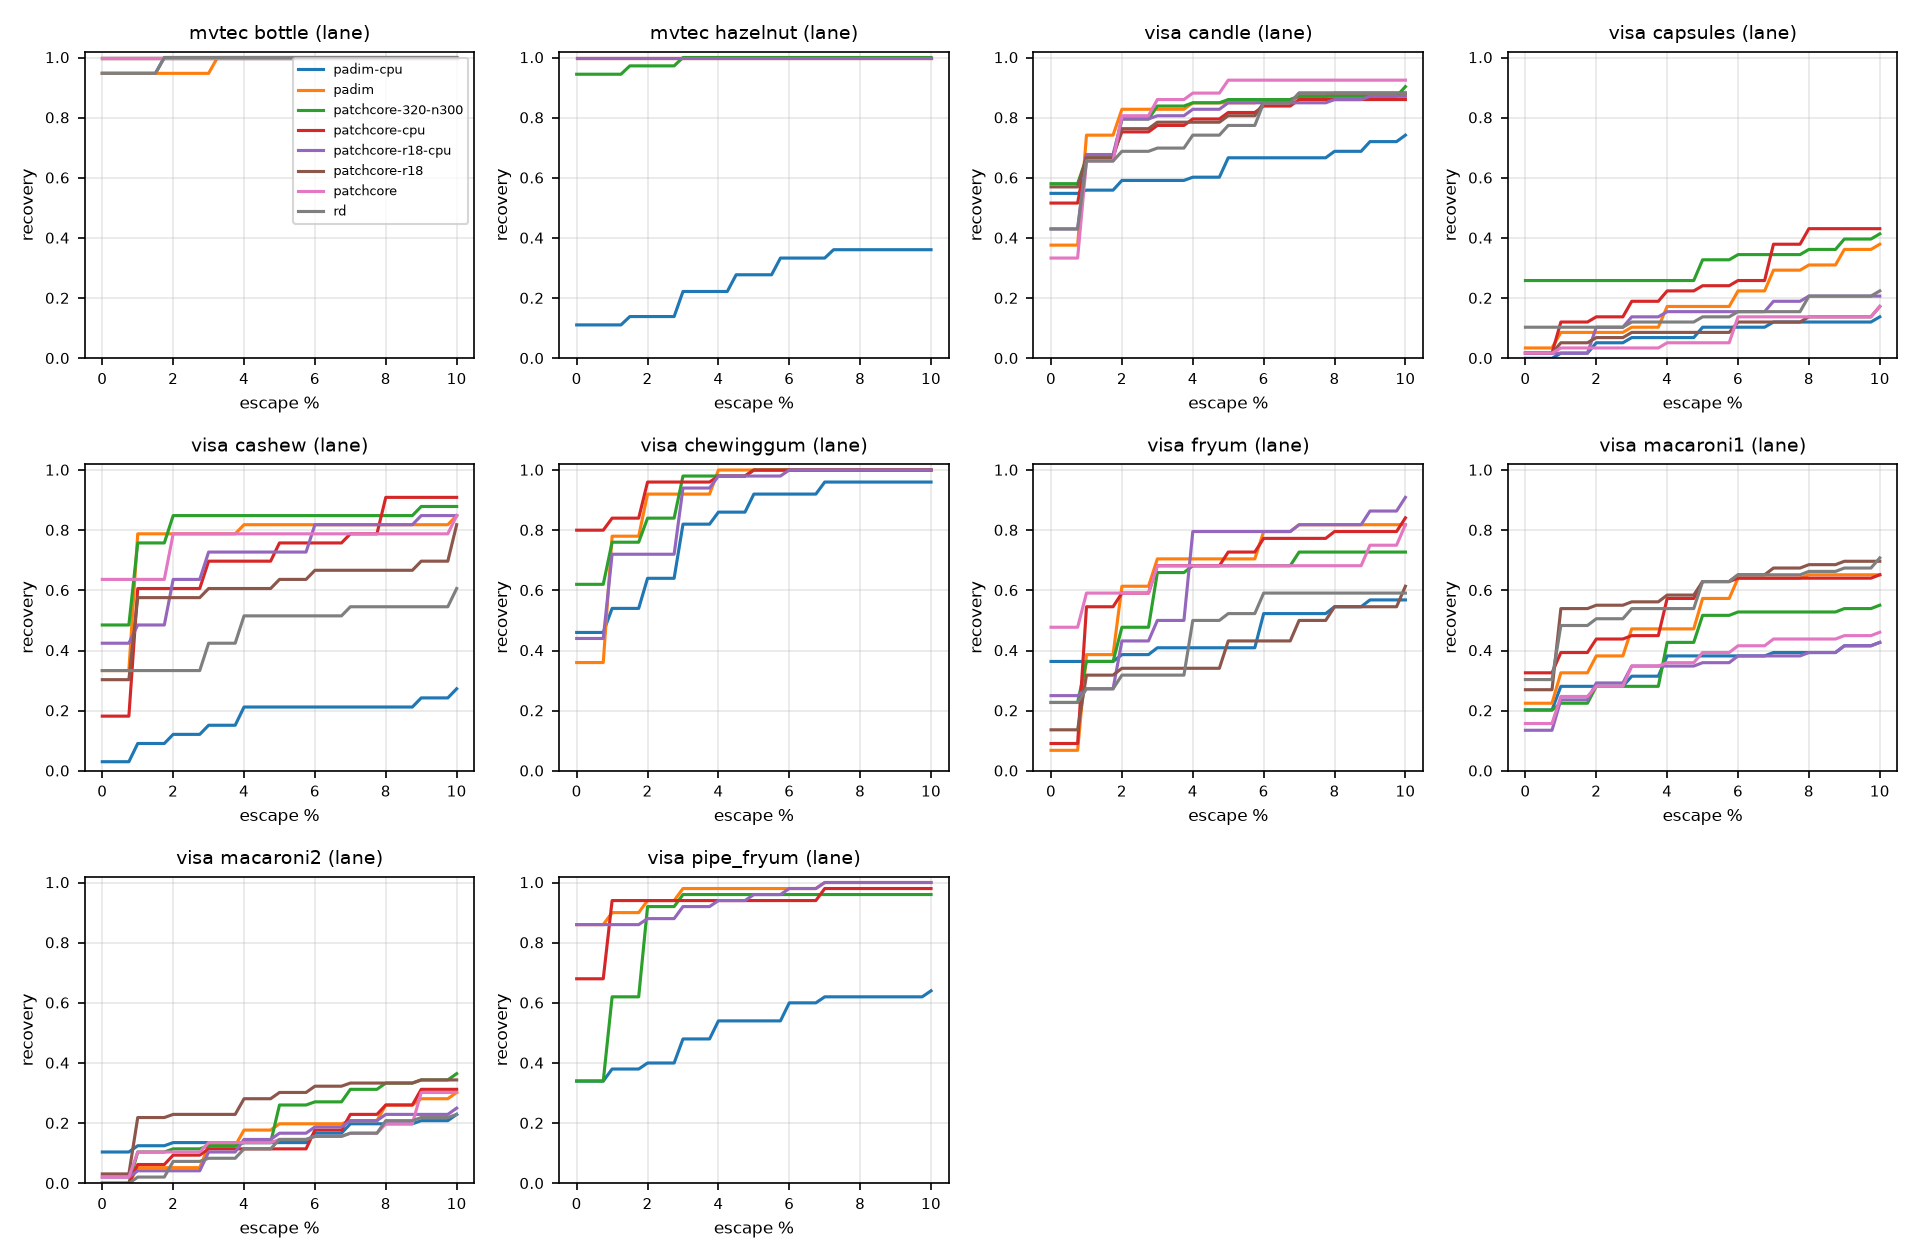
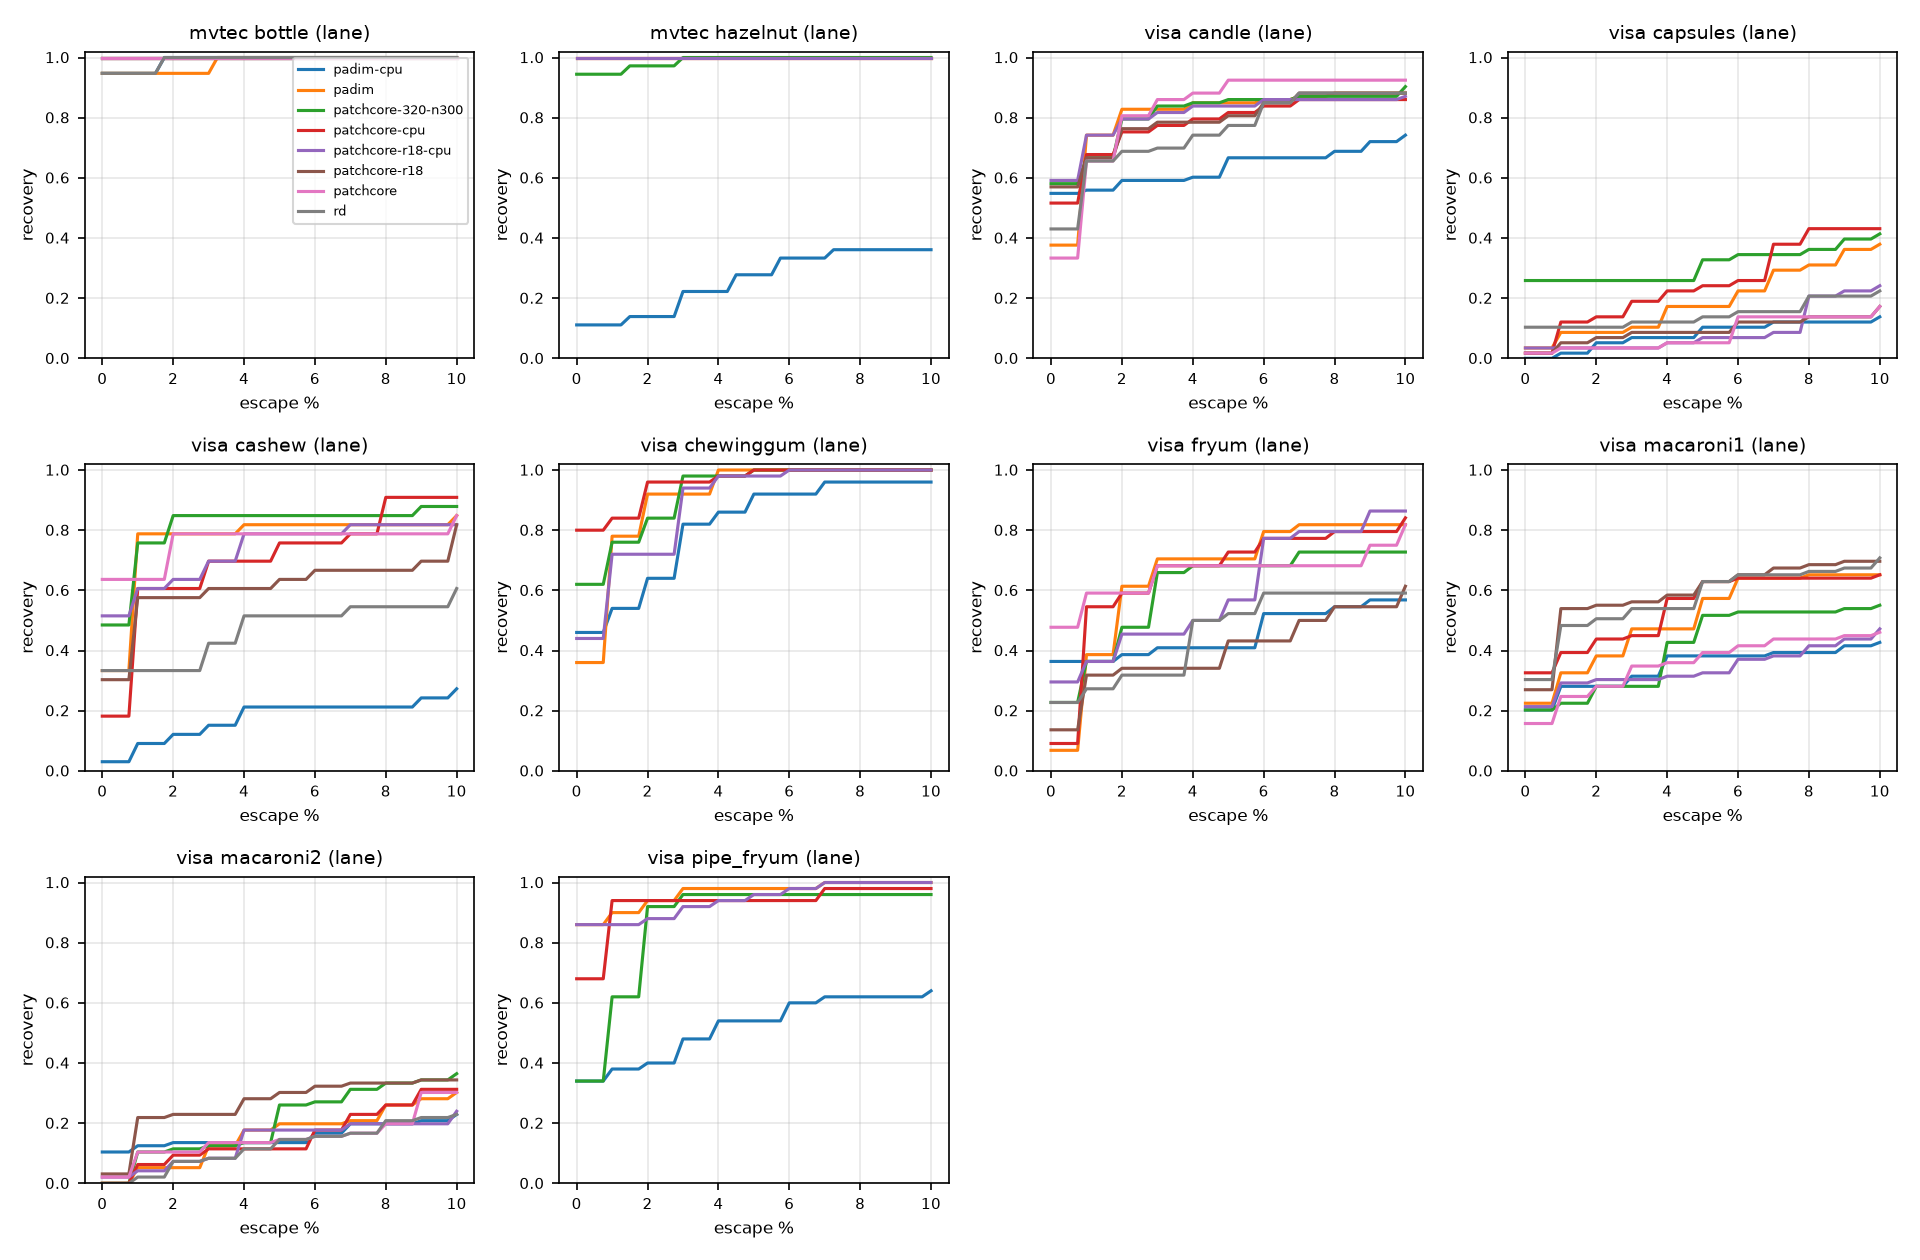
feat: goodsad tier in tables and figures

diff --git a/scripts/figures.py b/scripts/figures.py
@@ -17,11 +17,14 @@ import pandas as pd
 matplotlib.use("Agg")
 import matplotlib.pyplot as plt  # noqa: E402
 
+from common import is_main  # noqa: E402
+
 # tiers: rigid single objects / textured single items / multi-instance trays
 TIERS = [
     ("rigid object", ["bottle", "hazelnut"]),
     ("textured single item", ["pipe_fryum", "chewinggum", "cashew", "candle", "fryum"]),
     ("multi-instance tray", ["macaroni1", "capsules", "macaroni2"]),
+    ("packaged goods", ["drink_can", "drink_bottle", "food_bottle", "food_package", "food_box"]),
 ]
 MODELS = [("padim", "PaDiM 256"), ("patchcore", "PatchCore 256"), ("rd", "Reverse Dist. 256"),
           ("patchcore-320-n300", "PatchCore 320 (300 img)"), ("patchcore-r18", "PatchCore 256 resnet18")]
@@ -53,7 +56,8 @@ def heatmap(df: pd.DataFrame, out: Path) -> None:
     mat = np.full((len(cats), len(keys)), np.nan)
     for i, c in enumerate(cats):
         for j, m in enumerate(keys):
-            r = df[(df.category == c) & (df.model == m)]
+            sel = df.model.map(is_main) if m == "patchcore" else df.model == m
+            r = df[(df.category == c) & sel]
             if len(r):
                 mat[i, j] = r[COL].iloc[0]
     cmap = matplotlib.colors.ListedColormap(SEQ)
@@ -85,7 +89,8 @@ def heatmap(df: pd.DataFrame, out: Path) -> None:
     ax.set_title("Share of good items recovered at 1% escape, simulated reject lane", fontsize=10, color=INK, loc="left")
     for s in ax.spines.values():
         s.set_visible(False)
-    fig.tight_layout()
+    fig.text(0.01, 0.01, "packaged goods: GoodsAD, PatchCore on 400 training images", fontsize=6.5, color=INK2)
+    fig.tight_layout(rect=(0, 0.03, 1, 1))
     fig.savefig(out / "recovery_heatmap.png", dpi=160)
     plt.close(fig)
 
@@ -114,6 +119,8 @@ def speed(df: pd.DataFrame, devices: dict, out: Path) -> None:
     """Mean lane recovery vs latency per model on the GPU. A hollow marker at the same height shows
     the same model's latency on the CPU where it was timed (tag suffix -cpu, bottle only)."""
     names = dict(MODELS)
+    full = df.groupby("category").model.apply(lambda s: set(names) <= set(s))  # categories with every main model
+    df = df[df.category.isin(full[full].index)]
     gpu = df[df.model.isin(names)].groupby("model").agg(rec=(COL, "mean"), ms=("ms_per_image", "mean"))
     cpu = df[df.model.str.endswith("-cpu")].groupby("model").agg(ms=("ms_per_image", "mean"))
     offsets = {"patchcore": (-6, 8), "patchcore-320-n300": (6, 4), "patchcore-r18": (6, -11)}
@@ -130,7 +137,7 @@ def speed(df: pd.DataFrame, devices: dict, out: Path) -> None:
             ax.annotate("cpu", (cms, r.rec), xytext=(6, 2), textcoords="offset points", fontsize=7, color=INK2)
     ax.set_xscale("log")
     ax.set_xlabel("inference ms per image, log scale. Filled: GPU. Hollow: same model on CPU", fontsize=8, color=INK2)
-    ax.set_ylabel("mean recovery at 1% escape, lane, 10 categories", fontsize=8, color=INK2)
+    ax.set_ylabel(f"mean recovery at 1% escape, lane, {df.category.nunique()} categories", fontsize=8, color=INK2)
     ax.set_ylim(0.3, 0.8)
     ax.set_title("Latency vs recovery per model", fontsize=10, color=INK, loc="left")
     fig.text(0.01, 0.01, ", ".join(f"{k}: {v}" for k, v in sorted(devices.items())), fontsize=6.5, color=INK2)

diff --git a/scripts/lane.py b/scripts/lane.py
@@ -16,7 +16,7 @@ import pandas as pd
 from sklearn.metrics import roc_auc_score
 from sklearn.model_selection import StratifiedKFold
 
-from common import build_lane, recovery_at, split_tag, t_recover
+from common import build_lane, is_main, recovery_at, split_tag, t_recover
 
 ESCAPES = (0.0, 0.01, 0.05)
 CONFIRM_GOOD_FPR = 0.02   # t_confirm: at most 2 % of calibration goods above it
@@ -201,7 +201,7 @@ def write_docs(df: pd.DataFrame, frr_df: pd.DataFrame, path: Path, escape: float
 
 def frr_section(frr_df: pd.DataFrame, escape: float) -> list[str]:
     """PatchCore recovery on bins built by each stand-in at each primary reject rate. Does the bin builder matter?"""
-    d = frr_df[frr_df.model == "patchcore"]
+    d = frr_df[frr_df.model.map(is_main)]
     if d.empty:
         return []
     bins = ["zero-miss"] + [f"{f:.2f}" for f in FRRS]
@@ -210,7 +210,7 @@ def frr_section(frr_df: pd.DataFrame, escape: float) -> list[str]:
         f"## PatchCore recovery by stand-in camera and primary reject rate (held-out, {escape:.0%} escape)",
         "",
         "Columns: share of goods the stand-in rejects. `zero-miss`: cutoff at its weakest defect, resulting",
-        "reject rate in brackets. `template`: the unaligned rule camera.",
+        "reject rate in brackets. `template`: the unaligned rule camera. GoodsAD rows: PatchCore on 400 training images.",
         "",
         "The stand-in dilemma: a dumb primary rejects goods for reasons our model does not share, so the",
         "bin is easy and recovery looks good. A smart primary rejects the goods our model also doubts, so",
@@ -274,11 +274,11 @@ def make_figures(df: pd.DataFrame, frr_df: pd.DataFrame, scores: dict, standins:
             ("patchcore-320-n300", "#eda100"), ("patchcore-r18", "#e87ba4")]
     fig, ax = plt.subplots(figsize=(6, 5))
     for model, color in main:
-        g = df[df.model == model]
+        g = df[df.model.map(is_main)] if model == "patchcore" else df[df.model == model]
         if g.empty:
             continue
         ax.scatter(g.auroc, g[col], label=model, s=36, color=color, edgecolor="#ffffff", linewidth=0.8)
-    g = df[df.model == "patchcore"]
+    g = df[df.model.map(is_main)]
     for _, r in g.iterrows():
         ax.annotate(r.category, (r.auroc, r[col]), fontsize=6, color="#52514e", xytext=(4, 2), textcoords="offset points")
     ax.set_xlabel("image AUROC", fontsize=8)
@@ -324,7 +324,7 @@ def make_figures(df: pd.DataFrame, frr_df: pd.DataFrame, scores: dict, standins:
     plt.close(fig)
 
     # recovery vs primary reject rate, PatchCore, one line per stand-in
-    d = frr_df[(frr_df.model == "patchcore") & (frr_df.bin != "zero-miss")]
+    d = frr_df[frr_df.model.map(is_main) & (frr_df.bin != "zero-miss")]
     if d.empty:
         return
     colors = {"aligned": "#2a78d6", "pca": "#eb6834", "tinypadim": "#1baf7a", "template": "#8a8a8a"}

diff --git a/scripts/common.py b/scripts/common.py
@@ -25,6 +25,12 @@ def make_datamodule(dataset: str, root: Path, category: str, **kw):
 DATASETS = ("visa", "mvtec", "goodsad")
 
 
+def is_main(model: str) -> bool:
+    """The reference PatchCore run of a category: all training images, or the 400-image subset on GoodsAD,
+    where the full bank would not fit in VRAM."""
+    return model in ("patchcore", "patchcore-n400")
+
+
 def split_tag(tag: str) -> tuple[str, str, str]:
     """'visa_pipe_fryum_patchcore-320' -> ('visa', 'pipe_fryum', 'patchcore-320'). Model tokens never contain '_'."""
     ds, rest = tag.split("_", 1)

diff --git a/docs/results.md b/docs/results.md
@@ -39,7 +39,7 @@ recovery = auto-passed goods, escape = auto-passed defects, review = sent to a h
 | visa | capsules | patchcore-320-n150 | 60/100 | 0.78 | 0.03 | 0.08 | 0.18 | 0.97 | 0.09 | 0.97 | 0.07 | 0.98 | 0.08 | 21.70 |
 | visa | capsules | patchcore-320-n300 | 60/100 | 0.80 | 0.27 | 0.27 | 0.33 | 0.97 | 0.26 | 0.97 | 0.24 | 0.98 | 0.25 | 31.80 |
 | visa | capsules | patchcore-384-n150 | 60/100 | 0.84 | 0.02 | 0.12 | 0.25 | 0.97 | 0.12 | 0.97 | 0.09 | 0.98 | 0.12 | 39.80 |
-| visa | capsules | patchcore-n150 | 60/100 | 0.72 | 0.02 | 0.02 | 0.15 | 0.97 | 0.02 | 0.97 | 0.02 | 0.98 | 0.02 | 12.60 |
+| visa | capsules | patchcore-n150 | 60/100 | 0.73 | 0.03 | 0.03 | 0.07 | 0.97 | 0.03 | 0.97 | 0.03 | 0.98 | 0.03 | 11.90 |
 | visa | capsules | patchcore-r18 | 60/100 | 0.68 | 0.02 | 0.05 | 0.10 | 0.97 | 0.05 | 0.97 | 0.03 | 0.98 | 0.05 | 14.00 |
 | visa | capsules | rd | 60/100 | 0.79 | 0.10 | 0.10 | 0.13 | 0.97 | 0.10 | 0.97 | 0.09 | 0.98 | 0.10 | 131.50 |
 | visa | cashew | padim | 50/100 | 0.84 | 0.06 | 0.20 | 0.28 | 0.66 | 0.09 | 0.78 | 0.15 | 0.86 | 0.12 | 10.90 |
@@ -76,7 +76,7 @@ recovery = auto-passed goods, escape = auto-passed defects, review = sent to a h
 | visa | macaroni2 | patchcore-320-n150 | 100/100 | 0.64 | 0.00 | 0.06 | 0.21 | 0.96 | 0.05 | 0.96 | 0.05 | 0.93 | 0.05 | 20.00 |
 | visa | macaroni2 | patchcore-320-n300 | 100/100 | 0.69 | 0.00 | 0.12 | 0.27 | 0.96 | 0.10 | 0.96 | 0.10 | 0.93 | 0.11 | 31.20 |
 | visa | macaroni2 | patchcore-384-n150 | 100/100 | 0.68 | 0.00 | 0.07 | 0.12 | 0.96 | 0.06 | 0.96 | 0.06 | 0.93 | 0.06 | 34.20 |
-| visa | macaroni2 | patchcore-n150 | 100/100 | 0.60 | 0.03 | 0.05 | 0.17 | 0.96 | 0.04 | 0.96 | 0.04 | 0.93 | 0.04 | 11.80 |
+| visa | macaroni2 | patchcore-n150 | 100/100 | 0.62 | 0.03 | 0.05 | 0.18 | 0.96 | 0.04 | 0.96 | 0.04 | 0.93 | 0.04 | 11.00 |
 | visa | macaroni2 | patchcore-r18 | 100/100 | 0.72 | 0.04 | 0.23 | 0.31 | 0.96 | 0.22 | 0.96 | 0.22 | 0.93 | 0.23 | 18.00 |
 | visa | macaroni2 | rd | 100/100 | 0.64 | 0.00 | 0.02 | 0.14 | 0.96 | 0.02 | 0.96 | 0.02 | 0.93 | 0.02 | 125.40 |
 | visa | pipe_fryum | padim | 50/100 | 0.89 | 0.34 | 0.38 | 0.54 | 1.00 | 0.38 | 1.00 | 0.38 | 0.74 | 0.19 | 9.80 |
@@ -159,9 +159,9 @@ recovery = auto-passed goods, escape = auto-passed defects, review = sent to a h
 | visa | capsules | patchcore-384-n150 | aligned | 58 | 0.05 | 0.01 | 0.61 | 0.95 | 0.04 |
 | visa | capsules | patchcore-384-n150 | pca | 58 | 0.03 | 0.01 | 0.62 | 0.93 | 0.04 |
 | visa | capsules | patchcore-384-n150 | tinypadim | 59 | 0.05 | 0.01 | 0.64 | 0.96 | 0.04 |
-| visa | capsules | patchcore-n150 | aligned | 58 | 0.02 | 0.01 | 0.74 | 0.96 | 0.04 |
-| visa | capsules | patchcore-n150 | pca | 58 | 0.02 | 0.01 | 0.73 | 0.96 | 0.04 |
-| visa | capsules | patchcore-n150 | tinypadim | 59 | 0.02 | 0.01 | 0.73 | 0.93 | 0.04 |
+| visa | capsules | patchcore-n150 | aligned | 58 | 0.03 | 0.01 | 0.73 | 0.94 | 0.04 |
+| visa | capsules | patchcore-n150 | pca | 58 | 0.03 | 0.01 | 0.73 | 0.92 | 0.04 |
+| visa | capsules | patchcore-n150 | tinypadim | 59 | 0.03 | 0.01 | 0.73 | 0.95 | 0.04 |
 | visa | capsules | patchcore-r18 | aligned | 58 | 0.03 | 0.01 | 0.75 | 0.96 | 0.04 |
 | visa | capsules | patchcore-r18 | pca | 58 | 0.00 | 0.01 | 0.77 | 0.95 | 0.04 |
 | visa | capsules | patchcore-r18 | tinypadim | 59 | 0.03 | 0.01 | 0.75 | 0.96 | 0.04 |
@@ -270,9 +270,9 @@ recovery = auto-passed goods, escape = auto-passed defects, review = sent to a h
 | visa | macaroni2 | patchcore-384-n150 | aligned | 96 | 0.00 | 0.01 | 0.87 | 0.92 | 0.04 |
 | visa | macaroni2 | patchcore-384-n150 | pca | 96 | 0.01 | 0.01 | 0.87 | 0.89 | 0.04 |
 | visa | macaroni2 | patchcore-384-n150 | tinypadim | 93 | 0.00 | 0.01 | 0.87 | 0.94 | 0.04 |
-| visa | macaroni2 | patchcore-n150 | aligned | 96 | 0.02 | 0.01 | 0.93 | 0.77 | 0.04 |
-| visa | macaroni2 | patchcore-n150 | pca | 96 | 0.03 | 0.01 | 0.92 | 0.80 | 0.04 |
-| visa | macaroni2 | patchcore-n150 | tinypadim | 93 | 0.02 | 0.01 | 0.93 | 0.73 | 0.04 |
+| visa | macaroni2 | patchcore-n150 | aligned | 96 | 0.02 | 0.02 | 0.94 | 0.87 | 0.04 |
+| visa | macaroni2 | patchcore-n150 | pca | 96 | 0.03 | 0.02 | 0.93 | 0.87 | 0.04 |
+| visa | macaroni2 | patchcore-n150 | tinypadim | 93 | 0.02 | 0.02 | 0.94 | 0.80 | 0.04 |
 | visa | macaroni2 | patchcore-r18 | aligned | 96 | 0.03 | 0.02 | 0.87 | 0.89 | 0.04 |
 | visa | macaroni2 | patchcore-r18 | pca | 96 | 0.03 | 0.02 | 0.87 | 0.89 | 0.04 |
 | visa | macaroni2 | patchcore-r18 | tinypadim | 93 | 0.08 | 0.02 | 0.84 | 0.89 | 0.04 |
@@ -302,7 +302,7 @@ Figures: `docs/figures/auroc_vs_recovery.png`, `docs/figures/recovery_curves.png
 ## PatchCore recovery by stand-in camera and primary reject rate (held-out, 1% escape)
 
 Columns: share of goods the stand-in rejects. `zero-miss`: cutoff at its weakest defect, resulting
-reject rate in brackets. `template`: the unaligned rule camera.
+reject rate in brackets. `template`: the unaligned rule camera. GoodsAD rows: PatchCore on 400 training images.
 
 The stand-in dilemma: a dumb primary rejects goods for reasons our model does not share, so the
 bin is easy and recovery looks good. A smart primary rejects the goods our model also doubts, so
@@ -401,12 +401,12 @@ n: goods in the bin. Blank: fewer than 5 goods or 5 defects in the bin.
 | macaroni1 | patchcore-384-n150 | 89 | 0.33 | 0.01 | 0.19 | 0.00 | 0.13 | 0.70 |
 | macaroni2 | patchcore-384-n150 | 96 | 0.00 | 0.01 | 0.02 | 0.02 | 0.03 | 0.58 |
 | bottle | patchcore-cpu | 19 | 1.00 | 0.02 | 0.95 | 0.00 | 0.46 | 1.00 |
-| candle | patchcore-n150 | 93 | 0.47 | 0.02 | 0.17 | 0.02 | 0.31 | 0.86 |
-| capsules | patchcore-n150 | 58 | 0.02 | 0.01 | 0.03 | 0.01 | 0.02 | 0.62 |
-| cashew | patchcore-n150 | 33 | 0.43 | 0.01 | 0.60 | 0.01 | 0.04 | 0.90 |
-| fryum | patchcore-n150 | 44 | 0.27 | 0.02 | 0.67 | 0.02 | 0.18 | 0.86 |
-| macaroni1 | patchcore-n150 | 89 | 0.19 | 0.01 | 0.03 | 0.01 | 0.08 | 0.63 |
-| macaroni2 | patchcore-n150 | 96 | 0.02 | 0.01 | 0.07 | 0.06 | 0.01 | 0.49 |
+| candle | patchcore-n150 | 93 | 0.64 | 0.02 | 0.25 | 0.03 | 0.31 | 0.86 |
+| capsules | patchcore-n150 | 58 | 0.03 | 0.01 | 0.07 | 0.01 | 0.02 | 0.64 |
+| cashew | patchcore-n150 | 33 | 0.54 | 0.01 | 0.64 | 0.02 | 0.04 | 0.90 |
+| fryum | patchcore-n150 | 44 | 0.36 | 0.02 | 0.51 | 0.01 | 0.18 | 0.86 |
+| macaroni1 | patchcore-n150 | 89 | 0.21 | 0.01 | 0.07 | 0.02 | 0.08 | 0.65 |
+| macaroni2 | patchcore-n150 | 96 | 0.02 | 0.02 | 0.00 | 0.00 | 0.02 | 0.54 |
 | bottle | patchcore-r18 | 19 | 1.00 | 0.02 | 1.00 | 0.02 | 0.42 | 1.00 |
 | hazelnut | patchcore-r18 | 36 | 0.94 | 0.01 | 0.86 | 0.01 | 0.38 | 0.97 |
 | candle | patchcore-r18 | 93 | 0.59 | 0.01 | 0.37 | 0.02 | 0.32 | 0.86 |
